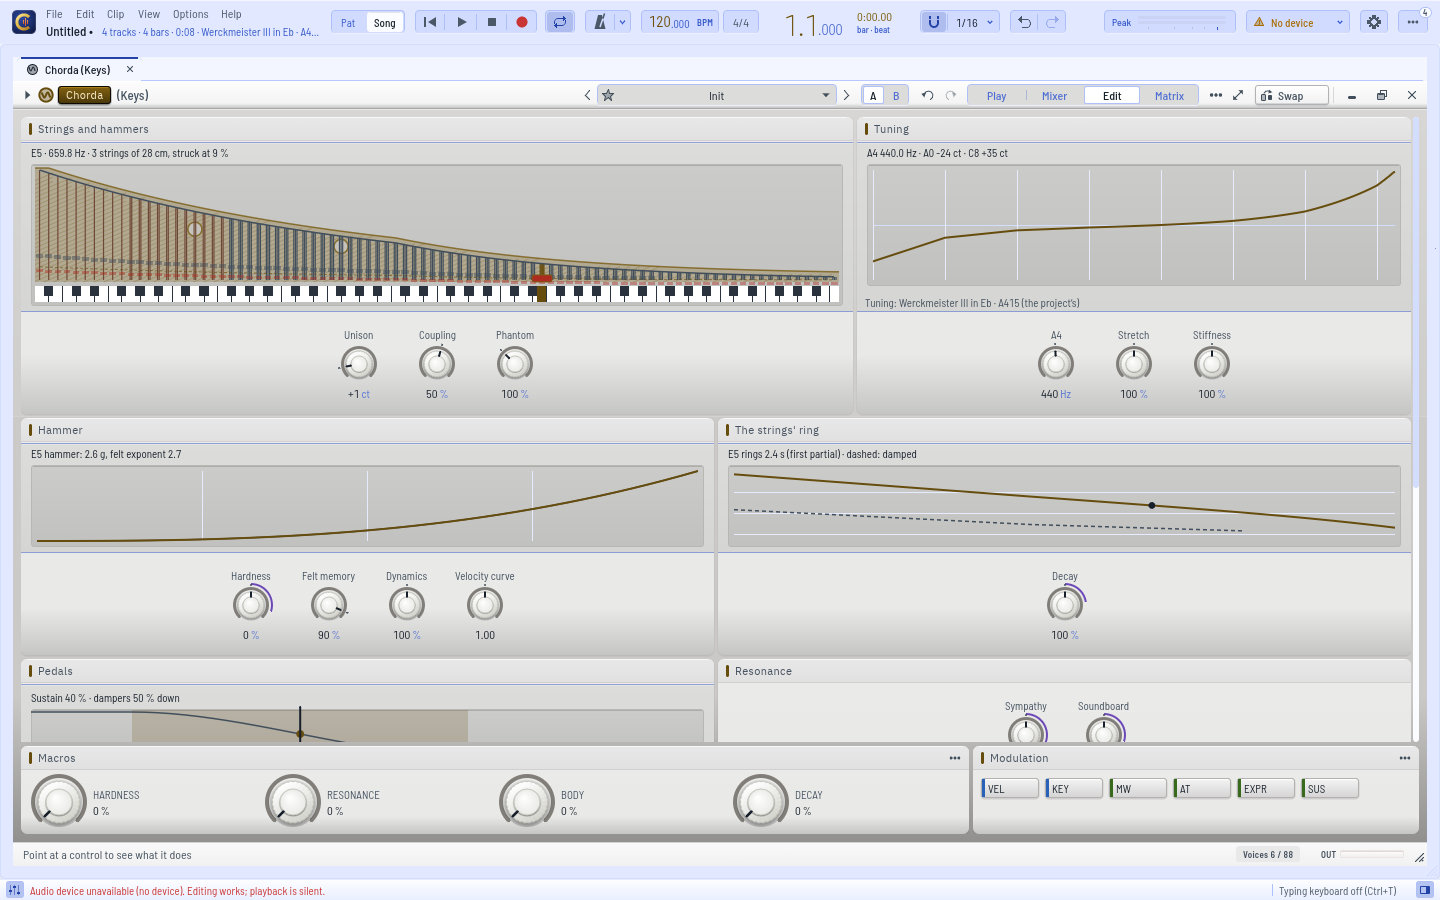
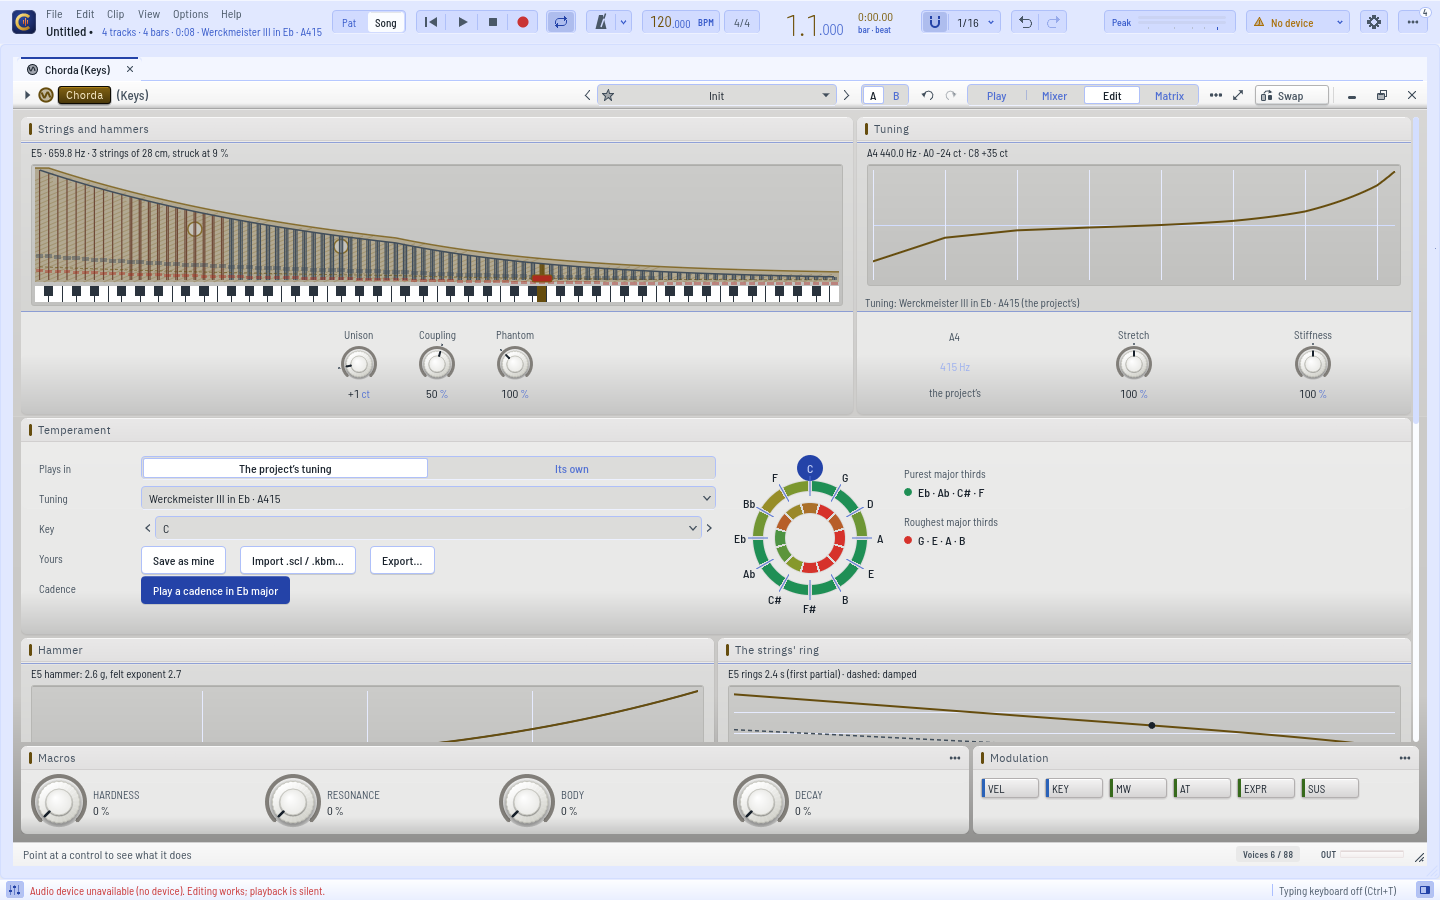
r42 tuning-face: Chorda's Temperament card's sheet (own Werckmeister III in E, the project's, no tuning), its whole-label test, the A4 rule from the table every unit reads, the warm-up's passes measured

diff --git a/crates/cantus-ui/tests/tuning_whole.rs b/crates/cantus-ui/tests/tuning_whole.rs
@@ -211,3 +211,78 @@ fn the_top_bar_says_a_tuned_songs_line_whole() {
     i18n::set_thread_locale(Locale::En);
     assert!(bad.is_empty(), "not read whole:\n{}", bad.join("\n"));
 }
+
+/// Chorda's Temperament card reads whole (the owner's ask of 2026-11-22): Chorda's Edit view
+/// with its own *Werckmeister III* in E, and following the project's tuning, in both themes
+/// at 100 % and dark at 75, 150 and 200 %, in both languages — every word cut there that is
+/// not cut in Chorda's Edit view of a song with no tuning (what the card added).
+#[test]
+fn chordas_temperament_card_reads_whole_in_both_languages() {
+    use cantus_core::InstrumentKind;
+    use cantus_ui::kit::shell::Shell;
+    use cantus_ui::views::inst::View;
+    let _turn = theme_turn();
+    let kind = InstrumentKind::Chorda;
+    cantus_ui::views::inst::chorda::scene::set_blocking(true);
+    let mut bad = Vec::new();
+    for lang in [Locale::En, Locale::Es] {
+        i18n::set_thread_locale(lang);
+        for (k, dark) in SCALES {
+            let mut seen_in = |state: &str| {
+                let ctx = context(dark);
+                let mut app =
+                    CantusApp::from_parts(Some(welcome_project()), EngineHandle::dummy(), false);
+                app.demo_editor("chorda");
+                let track = app.inst.open.expect("Chorda is open");
+                match state {
+                    "own" => {
+                        let spec = app
+                            .project()
+                            .track(track)
+                            .and_then(|t| t.instrument.native().cloned())
+                            .unwrap();
+                        let p = tuning::chorda::PRESETS
+                            .iter()
+                            .find(|p| p.name == "tuning.temper.meantone_quarter")
+                            .unwrap();
+                        app.exec(tuning::chorda::preset_command(&spec, track, p, 4));
+                    }
+                    "project" => {
+                        tuning::set(
+                            &mut app,
+                            Target::Project,
+                            Tuning {
+                                a4_hz: 415.0,
+                                system: TuningSystem::Temperament {
+                                    id: Temperament::Barbershop7,
+                                    key: 3,
+                                    follow_song_key: false,
+                                },
+                                map: None,
+                            },
+                        );
+                    }
+                    _ => {}
+                }
+                app.inst.view = View::Edit;
+                Shell::new(("inst", track.0)).set_scale(&ctx, k);
+                let size = cantus_ui::views::inst::editor_size(kind) * k;
+                probe::start_clipped();
+                cantus_ui::raster::shoot(&ctx, size, 1.0, 3, None, |ui| {
+                    cantus_ui::views::inst::window_in(&mut app, ui);
+                });
+                seen()
+            };
+            let plain = seen_in("plain");
+            for state in ["own", "project"] {
+                for c in seen_in(state) {
+                    if !plain.contains(&c) {
+                        bad.push(format!("chorda {state} {lang:?} {k} dark {dark}: {c}"));
+                    }
+                }
+            }
+        }
+    }
+    i18n::set_thread_locale(Locale::En);
+    assert!(bad.is_empty(), "not read whole:\n{}", bad.join("\n"));
+}

diff --git a/crates/cantus-ui/tests/picker_warm.rs b/crates/cantus-ui/tests/picker_warm.rs
@@ -33,7 +33,8 @@ fn pass(app: &mut CantusApp, ctx: &egui::Context, time: f64, events: Vec<egui::E
         ..Default::default()
     };
     let t0 = Instant::now();
-    let _ = ctx.run_ui(input, |ui| picker_warm::frame(app, &ui.ctx().clone()));
+    let mut out = ctx.run_ui(input, |ui| picker_warm::frame(app, &ui.ctx().clone()));
+    out.textures_delta.clear();
     t0.elapsed().as_secs_f64() * 1e3
 }
 
@@ -123,7 +124,8 @@ fn after_the_idle_warm_up_every_picture_is_ready_and_the_rest_is_quiet() {
             ..Default::default()
         };
         let t0 = Instant::now();
-        let _ = ctx2.run_ui(input, |_| {});
+        let mut out = ctx2.run_ui(input, |_| {});
+        out.textures_delta.clear();
         empty.push(t0.elapsed().as_secs_f64() * 1e3);
     }
     let median = |v: &mut Vec<f64>| {
@@ -133,6 +135,18 @@ fn after_the_idle_warm_up_every_picture_is_ready_and_the_rest_is_quiet() {
     let (rest_ms, empty_ms) = (median(&mut rest), median(&mut empty));
     steps.sort_by(|a, b| a.partial_cmp(b).unwrap());
     let worst = steps.last().copied().unwrap_or(0.0);
+    let over = steps.iter().filter(|ms| **ms > 1000.0 / 60.0).count();
+    let top: Vec<String> = steps
+        .iter()
+        .rev()
+        .take(6)
+        .map(|ms| format!("{ms:.0}"))
+        .collect();
+    eprintln!(
+        "warm-up passes over a 60 Hz frame: {over} of {} (the slowest, ms: {})",
+        steps.len(),
+        top.join(", ")
+    );
     let typical = steps[steps.len() / 2];
     eprintln!(
         "warm-up: {} pictures, {captures} editors drawn, {} passes; a pass {typical:.2} ms typical, {worst:.1} ms worst; at rest {rest_ms:.3} ms vs an empty pass {empty_ms:.3} ms",
